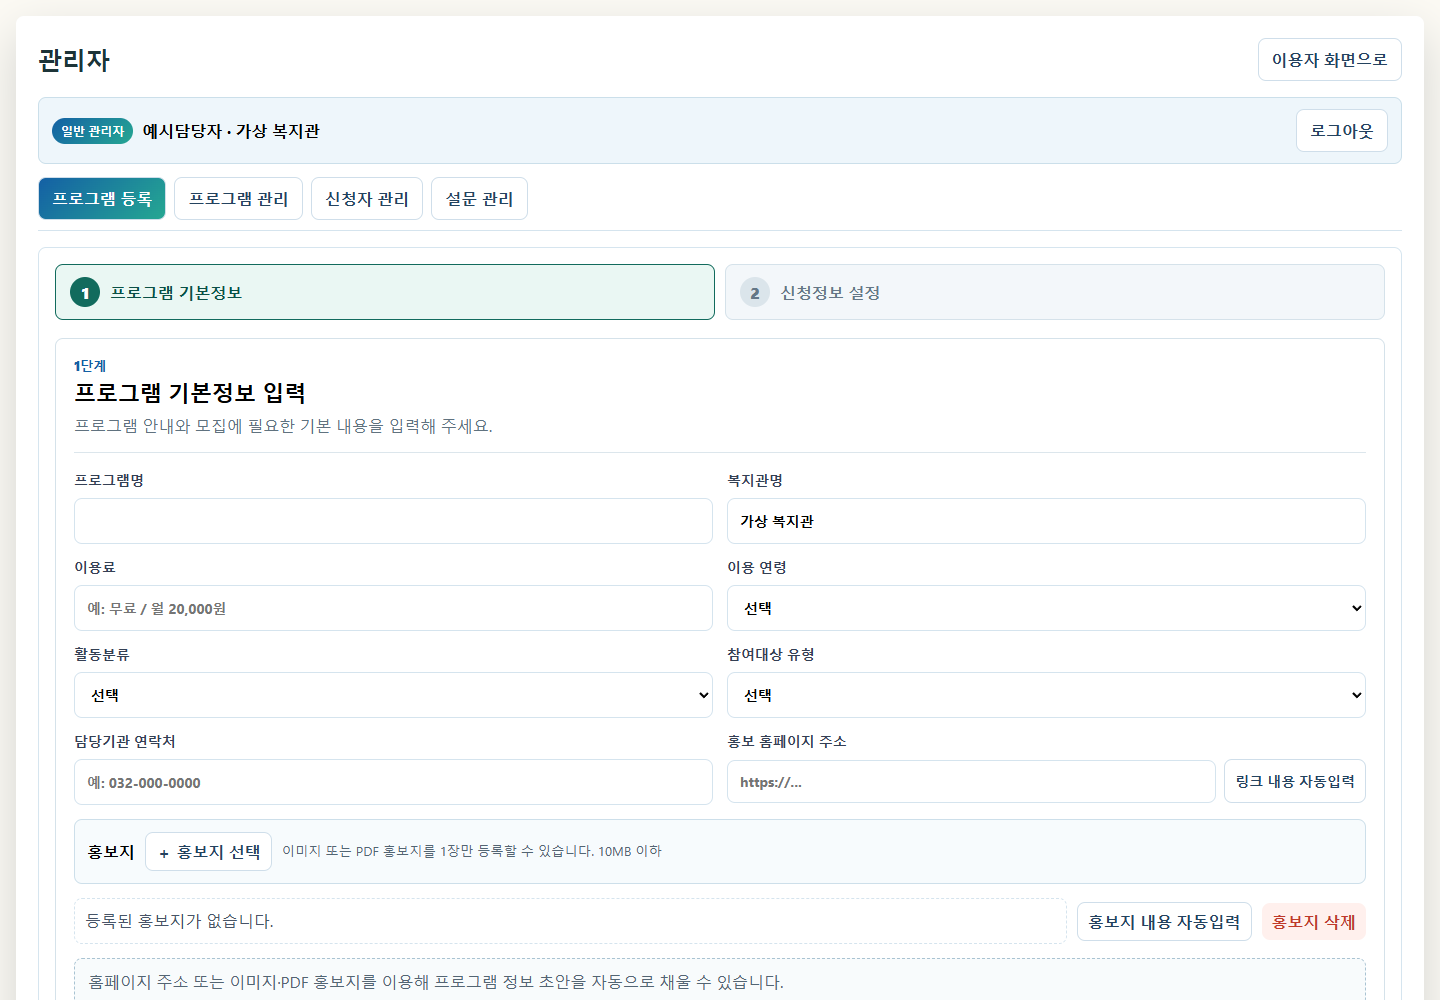
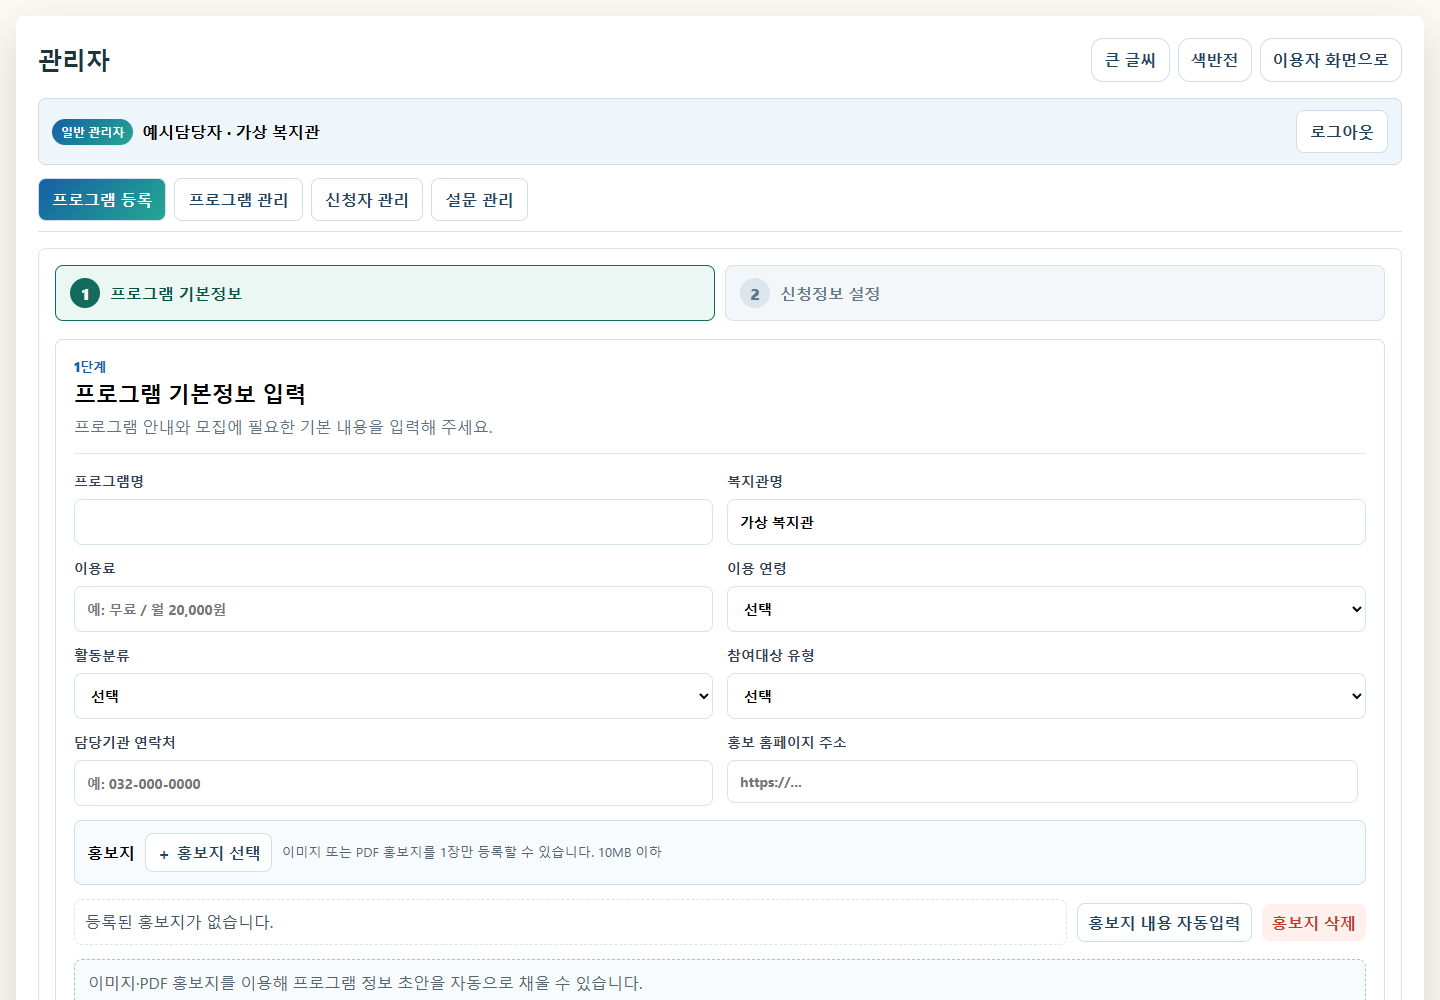
Refresh screen guides for v109 guardian consent and admin controls

diff --git a/guides/USER-GUIDE.md b/guides/USER-GUIDE.md
@@ -1,20 +1,20 @@
 # 인천 누림지도 · 일반 이용자 화면 가이드
 
-> 이 가이드는 인천 누림지도 v104의 실제 화면 소스를 실행하고 가상자료로 촬영한 화면 안내입니다. 운영 서비스에 로그인하거나 실제 신청·저장·개인정보 조회를 수행한 기록이 아닙니다. 추가 설문 이미지는 미리보기 화면입니다.
+> 2026-09-17 업데이트. 이 가이드는 인천 누림지도 v109의 실제 화면 소스를 실행하고 가상자료로 촬영한 화면 안내입니다. 운영 서비스에 로그인하거나 실제 신청·저장·개인정보 조회를 수행한 기록이 아닙니다. 추가 설문 이미지는 미리보기 화면입니다.
 
 ## 1. 프로그램 찾기
 
 프로그램 검색에 원하는 이름이나 내용을 입력합니다. 이용 연령·복지관·장애유형·참여대상·모집상태를 선택하거나 활동별 분류를 눌러 범위를 좁힙니다.
 
-![프로그램 찾기 — v104 화면, 가상자료](images/user-01-search.png)
+![프로그램 찾기 — v109 화면, 가상자료](images/user-01-search.png)
 
 다시 전체 목록을 보려면 검색조건 초기화를 누릅니다.
 
 ## 2. 프로그램 내용 확인
 
-프로그램 카드에서 참여 대상, 모집기간, 이용료, 운영 일정과 문의처를 확인합니다. 모집 중인 프로그램의 신청하기를 누르면 신청 화면이 열립니다.
+프로그램 카드에서 참여 대상, 모집기간, 이용료, 운영 일정과 문의처를 확인합니다. 홈페이지 링크가 등록되어 있으면 해당 기관의 상세 안내도 확인할 수 있습니다. 모집 중인 프로그램의 신청하기를 누르면 신청 화면이 열립니다.
 
-![프로그램 내용 확인 — v104 화면, 가상자료](images/user-02-program.png)
+![프로그램 내용 확인 — v109 화면, 가상자료](images/user-02-program.png)
 
 선착순·추첨 등 모집 방식과 정원·대기 여부를 함께 확인합니다. 이 화면의 프로그램은 가상 예시입니다.
 
@@ -22,23 +22,33 @@
 
 이름, 연락처, 생년월일, 참여자 구분을 입력합니다. 필요한 요청사항을 적은 뒤 다음: 개인정보 동의를 누릅니다.
 
-![신청 정보 입력 — v104 화면, 가상자료](images/user-03-application.png)
+![신청 정보 입력 — v109 화면, 가상자료](images/user-03-application.png)
 
 프로그램 설정에 따라 추가 설문이나 파일 첨부가 필요할 수 있습니다.
+
+### 만 14세 미만 신청자
+
+생년월일을 입력했을 때 만 14세 미만이면 보호자(법정대리인) 입력란이 나타납니다. 법정대리인이 안내를 확인하고 보호자 이름·추가 서명을 입력한 뒤 동의합니다. 보호자 서명란에는 보호자 이름을 한 번 더 입력합니다.
+
+![만 14세 미만 보호자 이름·추가 서명·동의 — v109 화면, 가상자료](images/user-09-guardian.png)
 
 ## 4. 개인정보 안내 확인
 
 항목별 처리 목적·수집 항목·보유기간을 읽고 동의 여부를 선택합니다. 전자서명에는 신청자 이름을 입력하고 마지막 제출 버튼을 누릅니다.
 
-![개인정보 안내 확인 — v104 화면, 가상자료](images/user-04-consent.png)
+![개인정보 안내 확인 — v109 화면, 가상자료](images/user-04-consent.png)
 
 이미지의 동의 문구는 가상 예시입니다. 실제 프로그램의 안내를 확인하세요. 제출 후 완료 안내를 확인하고, 추가 설문이 열리면 끝까지 진행합니다.
+
+만 14세 미만 신청자는 동의 화면에 신청 아동과 보호자 이름이 함께 표시됩니다. 이름을 확인하고, 신청자 전자서명에는 아동의 이름을 입력합니다. 문의처는 신청한 프로그램의 운영기관·담당기관 연락처이며, 프로그램 연락처가 없으면 사이트 공통 대표전화가 표시됩니다.
+
+![아동·보호자 표시와 프로그램별 문의처 — v109 화면, 가상자료](images/user-10-guardian-consent.png)
 
 ## 5. 필요한 경우: 추가 설문
 
 프로그램에서 추가로 묻는 질문에 답합니다. 필수 문항과 선택 개수 등 안내를 확인하고 마지막 페이지까지 제출합니다.
 
-![필요한 경우: 추가 설문 — v104 화면, 가상자료](images/user-08-extra-survey.png)
+![필요한 경우: 추가 설문 — v109 화면, 가상자료](images/user-08-extra-survey.png)
 
 이미지는 실제 설문 화면의 미리보기입니다. 미리보기의 입력 내용 검증은 실제 신청 제출이 아닙니다. 실제 신청 시에는 해당 화면의 제출 안내를 따릅니다.
 
@@ -46,7 +56,7 @@
 
 신청서 파일 제출을 사용하는 프로그램에서는 안내에 따라 양식을 작성하고 파일을 추가합니다. PDF·한글·워드·사진·ZIP을 최대 10개, 합계 10MB까지 추가할 수 있습니다.
 
-![필요한 경우: 신청서·증빙자료 첨부 — v104 화면, 가상자료](images/user-05-files.png)
+![필요한 경우: 신청서·증빙자료 첨부 — v109 화면, 가상자료](images/user-05-files.png)
 
 여러 번 선택하면 기존 목록에 추가됩니다. 제출 전 파일을 확인하고 잘못 선택한 파일은 목록에서 삭제합니다.
 
@@ -54,7 +64,7 @@
 
 화면 아래 내 신청내역 찾기에서 신청 당시 이름, 생년월일, 연락처 뒷번호 4자리를 입력하고 신청내역 조회를 누릅니다.
 
-![내 신청내역 찾기 — v104 화면, 가상자료](images/user-06-lookup.png)
+![내 신청내역 찾기 — v109 화면, 가상자료](images/user-06-lookup.png)
 
 입력정보가 정확히 일치해야 조회됩니다. 접수 완료와 최종 참여자 선정은 다를 수 있으므로 기관 안내를 확인합니다.
 
@@ -62,6 +72,6 @@
 
 화면 위 큰 글씨와 색반전 버튼으로 글씨 크기와 색상 표현을 조정합니다.
 
-![보기 편한 화면으로 조정 — v104 화면, 가상자료](images/user-07-accessibility.png)
+![보기 편한 화면으로 조정 — v109 화면, 가상자료](images/user-07-accessibility.png)
 
 이용에 어려움이 있거나 신청내역이 확인되지 않으면 프로그램에 표시된 기관 문의처로 연락합니다.

diff --git a/guides/ADMIN-GUIDE.md b/guides/ADMIN-GUIDE.md
@@ -1,12 +1,12 @@
 # 인천 누림지도 · 기관 관리자 화면 가이드
 
-> 이 가이드는 인천 누림지도 v104의 실제 화면 소스를 실행하고 가상자료로 촬영한 화면 안내입니다. 운영 서비스에 로그인하거나 실제 신청·저장·개인정보 조회를 수행한 기록이 아닙니다. 추가 설문 이미지는 미리보기 화면입니다.
+> 2026-09-17 업데이트. 이 가이드는 인천 누림지도 v109의 실제 화면 소스를 실행하고 가상자료로 촬영한 화면 안내입니다. 운영 서비스에 로그인하거나 실제 신청·저장·개인정보 조회를 수행한 기록이 아닙니다. 추가 설문 이미지는 미리보기 화면입니다.
 
 ## 1. 관리자 화면 열기·로그인
 
 이용자 화면 위 관리자 버튼을 누르면 별도 탭에서 관리자 로그인 화면이 열립니다. 부여받은 계정으로 로그인합니다.
 
-![관리자 화면 열기·로그인 — v104 화면, 가상자료](images/admin-01-login.png)
+![관리자 화면 열기·로그인 — v109 화면, 가상자료](images/admin-01-login.png)
 
 기관 담당자는 소속 기관의 업무를 처리합니다. 이미지에는 실제 계정이나 비밀번호를 넣지 않았습니다.
 
@@ -14,23 +14,29 @@
 
 프로그램 등록에서 프로그램명, 이용료, 이용 연령, 활동분류, 참여대상, 연락처, 모집기간과 일정을 입력합니다. 아래쪽 항목까지 작성한 뒤 다음: 신청정보 설정으로 이동합니다.
 
-![프로그램 기본정보 등록 — v104 화면, 가상자료](images/admin-02-register.png)
+![프로그램 기본정보 등록 — v109 화면, 가상자료](images/admin-02-register.png)
 
-홈페이지 링크나 홍보지 내용 자동입력을 사용했다면 원문과 대조해 수정합니다. 이미지는 기본정보 화면의 위쪽 부분입니다.
+홍보 홈페이지 주소에는 이용자가 상세 안내를 볼 수 있는 기관의 공지 주소를 입력합니다. 이 주소는 상세 안내 링크로 사용하며, 홈페이지 링크를 통한 내용 자동입력 버튼은 현재 제공하지 않습니다.
+
+홍보지는 이미지 또는 PDF로 등록하고 **홍보지 내용 자동입력**을 누릅니다. 인식된 모집기간·참여대상·일정·이용료·연락처 등을 원문과 대조하여 수정한 뒤 저장합니다.
+
+![홈페이지 주소 입력과 홍보지 자동입력 — v109 화면, 가상자료](images/admin-07-poster-link.png)
+
+담당기관 연락처는 이용자 문의처와 만 14세 미만 개인정보 동의 안내에 표시되므로 정확하게 입력합니다.
 
 ## 3. 신청 방식 설정·최종 저장
 
 프로그램에 필요한 개인정보 동의 항목을 확인하고, 필요에 따라 추가 설문 또는 신청서 파일 제출 방식을 설정합니다. 내용을 검토한 뒤 프로그램 최종 저장을 누릅니다.
 
-![신청 방식 설정·최종 저장 — v104 화면, 가상자료](images/admin-06-settings.png)
+![신청 방식 설정·최종 저장 — v109 화면, 가상자료](images/admin-06-settings.png)
 
-추가 설문은 설문 관리에서 준비하여 연결합니다. 저장 전에 이용자 화면과 신청 순서를 확인하세요. 아래 이미지는 가상 프로그램의 설정 예시입니다.
+개인정보 보유기간은 기관의 운영 기준에 맞게 설정합니다. 추가 설문은 설문 관리에서 준비하여 연결합니다. 저장 전에 이용자 화면과 신청 순서를 확인하세요. 아래 이미지는 가상 프로그램의 설정 예시입니다.
 
 ## 4. 추가 설문 만들기
 
 설문 관리에서 새 설문을 만들고 질문과 응답 유형을 정합니다. 왼쪽에서 문항을 편집하면서 오른쪽 이용자 화면 미리보기로 확인합니다.
 
-![추가 설문 만들기 — v104 화면, 가상자료](images/admin-03-survey.png)
+![추가 설문 만들기 — v109 화면, 가상자료](images/admin-03-survey.png)
 
 문항 추가·페이지 추가·문항 복사를 활용합니다. 문항 제목 영역을 끌거나 위로·아래로 버튼으로 순서를 바꿀 수 있습니다. 편집 후 저장하고 신청에 사용을 통해 반영합니다.
 
@@ -38,7 +44,7 @@
 
 프로그램 관리에서 등록된 프로그램을 찾아 수정하거나 복사합니다. 새 모집을 시작할 때는 기존 프로그램을 복사한 뒤 대상·기간·정원 등을 새 내용으로 바꿉니다.
 
-![등록한 프로그램 관리 — v104 화면, 가상자료](images/admin-04-programs.png)
+![등록한 프로그램 관리 — v109 화면, 가상자료](images/admin-04-programs.png)
 
 공개 여부와 모집 상태를 확인하고, 변경된 안내가 이용자 화면에도 올바르게 표시되는지 확인합니다.
 
@@ -46,9 +52,17 @@
 
 신청자 관리에서 프로그램을 선택하고 신청내역을 확인합니다. 참여 명단 CSV를 업무에 활용하고, 프로그램 설정에 따라 제출자료를 확인합니다.
 
-![신청자·제출자료 확인 — v104 화면, 가상자료](images/admin-05-applicants.png)
+![신청자·제출자료 확인 — v109 화면, 가상자료](images/admin-05-applicants.png)
+
+만 14세 미만 신청자의 상세 정보에서는 아동과 보호자의 서명·동의 기록을 확인합니다. 보호자 서명 입력만으로 법정대리인의 신원·관계 확인이 완료되는 것은 아니므로 필요한 확인은 기관 절차에 따릅니다.
 
 이미지의 이름·생년월일·연락처는 모두 가상자료입니다. Google Drive 연계 자료는 사전 연결 및 실제 저장 상태를 확인한 후 사용합니다.
+
+## 7. 관리자 화면의 큰 글씨·색반전
+
+관리자 화면 상단의 **큰 글씨**와 **색반전** 버튼으로 화면을 조정합니다. 켜진 버튼을 다시 누르면 해제됩니다. 이용자 화면과 같은 브라우저의 설정을 공유하며, 키보드로도 조작할 수 있습니다.
+
+![관리자 큰 글씨·색반전 적용 — v109 화면, 가상자료](images/admin-08-accessibility.png)
 
 ## 최고관리자 업무
 

diff --git a/guides/README.md b/guides/README.md
@@ -1,0 +1,10 @@
+# 인천 누림지도 화면 가이드
+
+2026-09-17 · v109 기준
+
+| 대상 | 가이드 | 주요 내용 |
+| --- | --- | --- |
+| 일반 이용자 | [이용자 가이드](USER-GUIDE.md) | 검색·신청, 보호자 동의, 추가 설문·첨부, 신청내역 확인 |
+| 기관 담당자 | [관리자 가이드](ADMIN-GUIDE.md) | 프로그램 등록, 홈페이지 링크·홍보지, 설문·신청자료 관리, 큰 글씨·색반전 |
+
+각 가이드에서 설명과 화면 이미지를 함께 확인할 수 있습니다. 화면은 최신 웹앱 소스를 별도 환경에서 가상자료로 실행해 촬영했습니다. 실제 개인정보나 신청·저장 기록은 사용하지 않았습니다.

diff --git a/README.md b/README.md
@@ -11,7 +11,7 @@
 
 각 링크를 누르면 이미지와 설명을 함께 볼 수 있습니다. 별도의 파일 다운로드는 필요하지 않습니다.
 
-> 화면은 v104의 실제 화면 소스를 가상자료로 실행해 촬영했습니다. 실제 운영 신청·저장 기록이 아니며, 추가 설문 이미지는 미리보기입니다.
+> 화면 가이드는 2026-09-17 기준 v109의 실제 화면 소스를 가상자료로 실행해 촬영했습니다. 실제 운영 신청·저장 기록이 아니며, 추가 설문 이미지는 미리보기입니다.
 
 ## 시연영상
 
